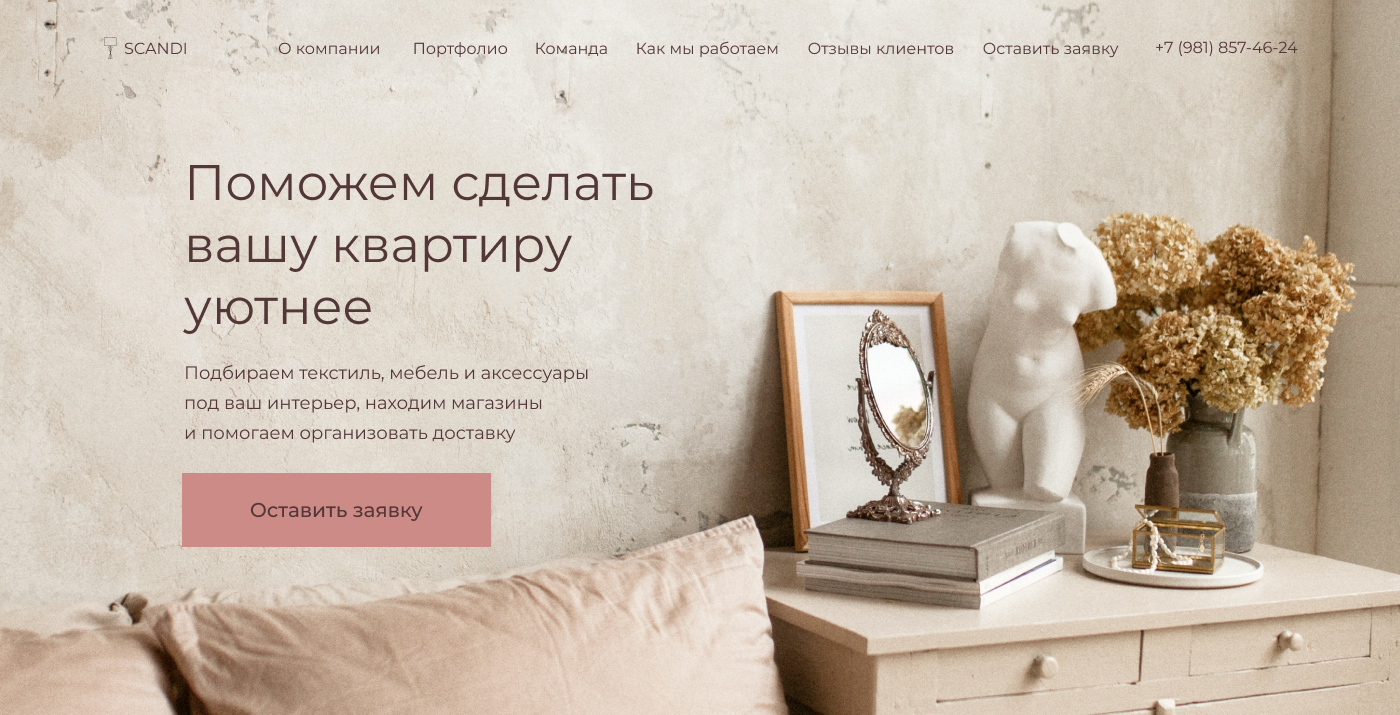
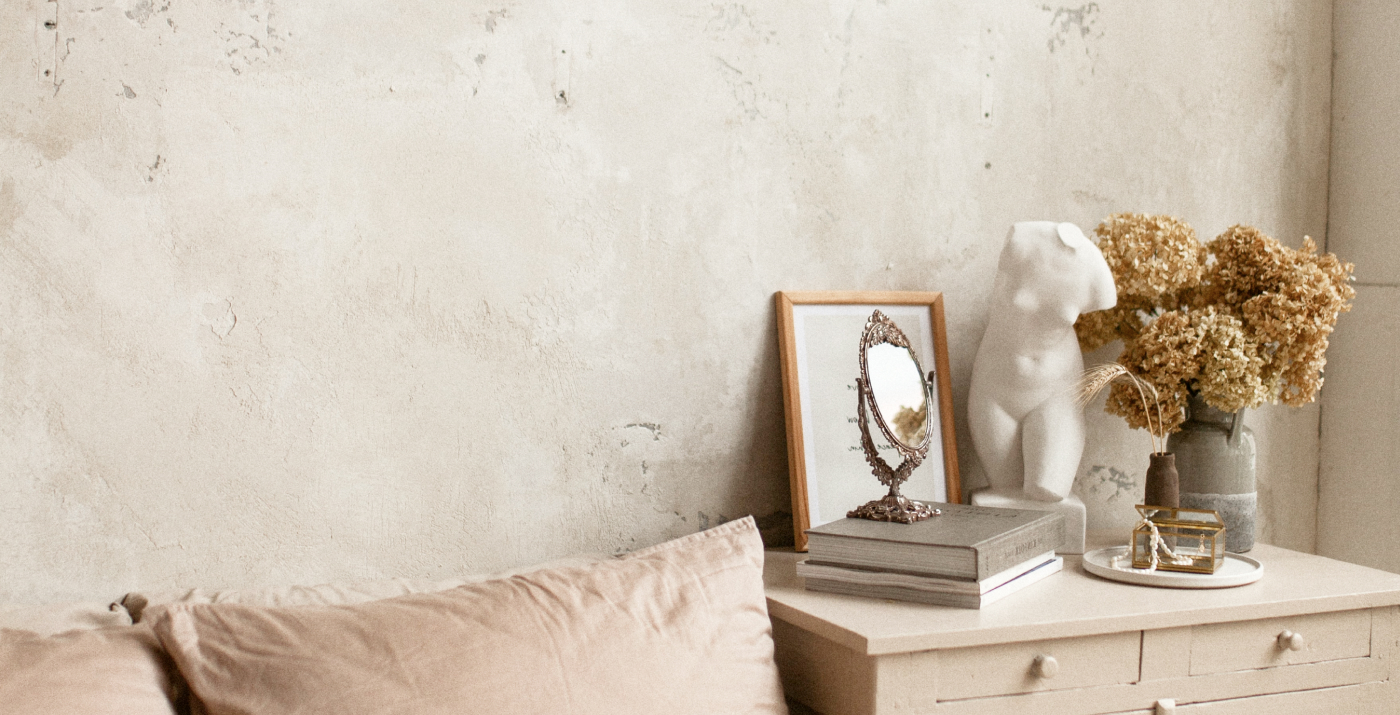
change img/header/background-main, add fonts, change css commit

diff --git a/index.html b/index.html
@@ -7,26 +7,31 @@
     <meta name="keywords" content="важные, ключевые, слова">
     <meta name="description" content="краткое описание">
     <link href="main.css" rel="stylesheet">
+    <link rel="preconnect" href="https://fonts.googleapis.com">
+    <link rel="preconnect" href="https://fonts.gstatic.com" crossorigin>
+    <link href="https://fonts.googleapis.com/css2?family=Montserrat:wght@400;500&display=swap" rel="stylesheet">
     <title>SCANDI</title>
 </head>
 <body>
         <section class="main">
             <header>
-                <ul>
-                    <li><img src="img/header/logo.svg" alt="Логотип"></li>
-                    <li>SCANDI</li>
-                    <li><a href="#about-us">О компании</a></li>
-                    <li><a href="#portfolio">Портфолио</a></li>
-                    <li><a href="#team">Команда</a></li>
-                    <li><a href="#how-we-working">Как мы работаем</a></li>
-                    <li><a href="#reviews">Отзывы клиентов</a></li>
-                    <li><a href="#request">Оставить заявку</a></li>
-                    <li><a href="tel:+79818574624">+7 (981) 857-46-24</a></li>
-                </ul>
+                <nav>
+                    <ul>
+                        <li><img class="logo" src="img/header/logo.svg" alt="Логотип"></li>
+                        <li class="name">SCANDI</li>
+                        <li><a href="#about-us">О компании</a></li>
+                        <li><a href="#portfolio">Портфолио</a></li>
+                        <li><a href="#team">Команда</a></li>
+                        <li><a href="#how-we-working">Как мы работаем</a></li>
+                        <li><a href="#reviews">Отзывы клиентов</a></li>
+                        <li><a href="#request">Оставить заявку</a></li>
+                        <li><a href="tel:+79818574624">+7 (981) 857-46-24</a></li>
+                    </ul>
+                </nav>
             </header>
-            <h1>Поможем сделать вашу квартиру уютнее</h1>
-            <p>Подбираем текстиль, мебель и аксессуары под ваш интерьер, находим магазины  и помогаем организовать доставку</p>
-            <div><a class="main-request" href="#request">Оставить заявку</a></div>
+            <h1 class="main-help">Поможем сделать вашу квартиру уютнее</h1>
+            <p class="main-help-description">Подбираем текстиль, мебель и аксессуары под ваш интерьер, находим магазины  и помогаем организовать доставку</p>
+            <div class="button-request"><a class="main-request" href="#request">Оставить заявку</a></div>
         </section>
 
         <section class="about-us">

diff --git a/main.css b/main.css
@@ -1,0 +1,174 @@
+body {
+    font-family: 'Montserrat', sans-serif;
+    position: relative;
+    width: 1400px;
+    height: 5372px;
+
+    background: #EFE6E4;
+}
+
+footer {
+    font-family: 'Montserrat', sans-serif;
+    position: absolute;
+    width: 1200px;
+    height: 30px;
+    left: 100px;
+    top: 5305px;
+
+}
+
+.main {
+    background-image: url(img/header/background-main.jpg);
+    position: absolute;
+    width: 1400px;
+    height: 715px;
+    left: 0px;
+    top: 0px;
+   
+}
+
+.main-help {
+    position: absolute;
+    width: 534.02px;
+    height: 186px;
+    left: 184.08px;
+    top: 152px;
+
+    font-family: 'Montserrat';
+    font-style: normal;
+    font-weight: 400;
+    font-size: 50px;
+    line-height: 62px;
+    
+    color: #533738;
+
+    
+}
+
+.main-help-description {
+    position: absolute;
+    width: 493.57px;
+    height: 90px;
+    left: 184.08px;
+    top: 362px;
+
+    /* Основной текст */
+
+    font-family: 'Montserrat';
+    font-style: normal;
+    font-weight: 400;
+    font-size: 18px;
+    line-height: 30px;
+    /* or 167% */
+
+
+    color: #533738;
+}
+
+.button-request {
+    width: 309.14px;
+    height: 74px;
+    position: absolute;
+    left: 182px;
+    top: 473px;
+   
+    background: #CC8B86;
+    border: 1px solid #000000;
+    box-shadow: 0px 4px 4px rgba(0, 0, 0, 0.25);
+}
+
+.main-request {
+    position: absolute;
+    width: 175.35px;
+    height: 25px;
+    left: 67.91px;
+    top: 25px;
+
+    font-family: 'Montserrat';
+    font-style: normal;
+    font-weight: 500;
+    font-size: 20px;
+    line-height: 24px;
+
+    color: #533738;
+}
+
+.about-us {
+    position: absolute;
+    width: 1400px;
+    height: 849px;
+    left: 0px;
+    top: 780px;
+
+}
+
+.portfolio {
+    position: absolute;
+    width: 1200px;
+    height: 1099px;
+    left: 100px;
+    top: 1694px;
+}
+
+.team {
+    position: absolute;
+    width: 1399px;
+    height: 998px;
+    left: 1px;
+    top: 2858px;
+    background: #E2C4BA;
+}
+
+.reviews {
+    position: absolute;
+    width: 1036px;
+    height: 658px;
+    left: 182px;
+    top: 3921px;
+
+}
+
+.request {
+    position: absolute;
+    width: 1400px;
+    height: 624px;
+    left: 1px;
+    top: 4644px;
+
+    background: #8D7370;
+}
+
+ul li {
+    list-style-type: none;
+}
+
+.logo li {
+    position: absolute;
+    width: 25.34px;
+    height: 25px;
+    left: 98.32px;
+    top: 36px;
+
+}
+
+.name li {
+    position: absolute;
+    width: 64.87px;
+    height: 20px;
+    left: 124px;
+    top: 38px;
+
+    font-family: 'Montserrat';
+    font-style: normal;
+    font-weight: 400;
+    font-size: 16px;
+    line-height: 20px;
+
+
+
+    color: #533738;
+}
+
+nav ul li {
+    display: inline;
+}
